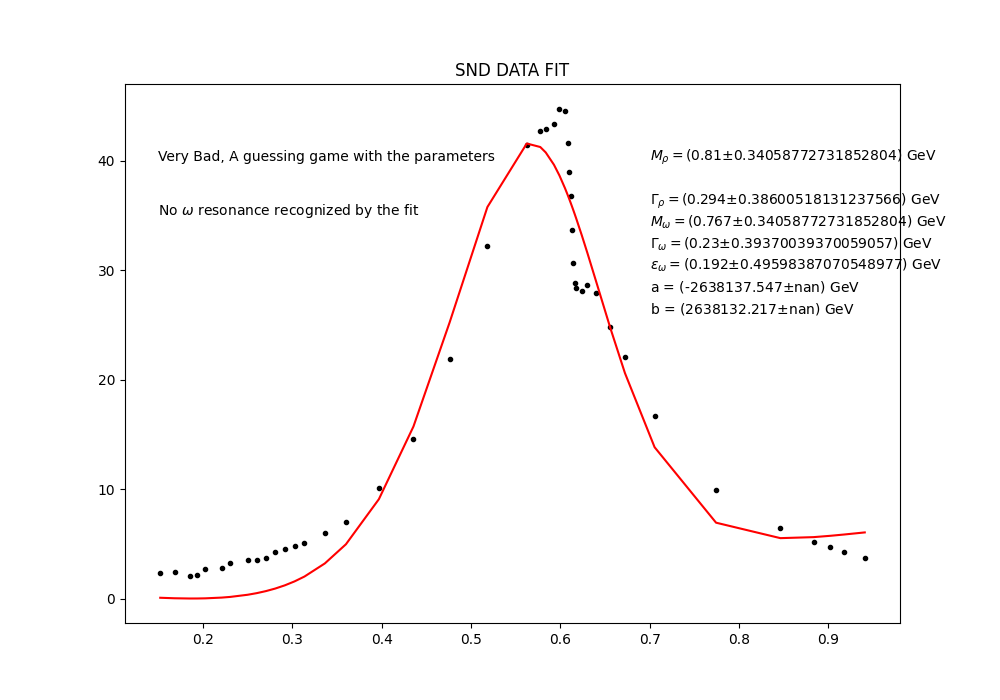
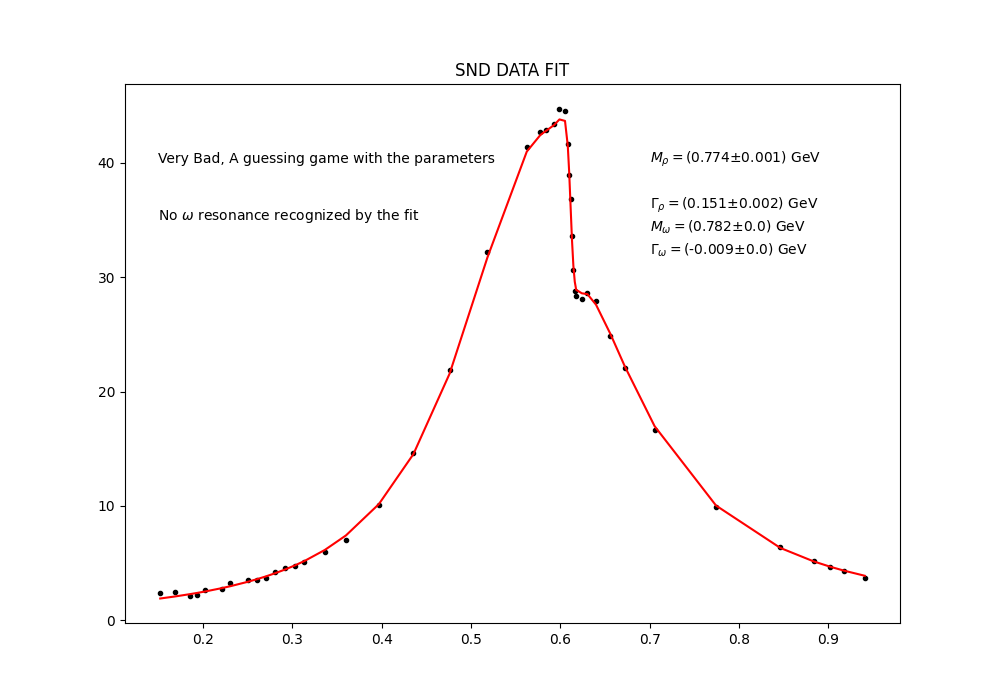
done first fit

diff --git a/sesh1/prog/fit_single.py b/sesh1/prog/fit_single.py
@@ -7,12 +7,12 @@ import matplotlib.pyplot as plt
 global m_p; m_p = 0.13957
 
 sig_p = lambda x: np.sqrt(1 - 4*m_p**2/x)
-g_s = lambda s, m_q, g_q: g_q*s/m_q**2 * (sig_p(s)/sig_p(m_q**2))**2 * np.heaviside(s, 4*m_p**2)
+g_s = lambda s, m_q, g_q: g_q*s/m_q**2 * (sig_p(s)/sig_p(m_q**2))**3 * np.heaviside(s,  4*m_p**2)
 
-def model(s, m_q, g_q, m_w, g_w, e_w, a, b):
+def model(s, m_q, g_q, m_w, g_w, e_w, a, b, c):
     part1 = (m_q)**4/((m_q**2 - s)**2 + m_q**2*g_s(s, m_q, g_q)**2)
     part2 = 1 + (e_w * 2*s * (m_w**2 - s))/((m_w**2 - s)**2 + m_w**2*g_w**2)
-    part3 = (1 + a*s + b*s)**2
+    part3 = c*(1 + a*s + b*s**2)**2
     return part1 * part2 * part3
 
 def main():
@@ -20,9 +20,9 @@ def main():
     s = data[:,0]
     F2 = data[:, 1]
 
-    p0 = [0.7, 0.2, 0.8, 0.2, 2e-3, 1e4, -1e5]   # in GeV
+    p0 = [0.7, 0.2, 0.8, 0.2, 2e-3, -522.90, 191.40, 0.5]   # in GeV
     popt, pcov = curve_fit(model, s, F2, p0)
-    popt, pcov = np.round(popt, 3), np.round(pcov, 3)
+    popt, uncert = np.round(popt, 3), np.round(np.sqrt(np.diagonal(pcov)), 3)
 
     plt.figure(figsize=[10, 7])
     plt.title('SND DATA FIT')
@@ -31,13 +31,10 @@ def main():
     plt.annotate('Very Bad, A guessing game with the parameters', (0.15, 40))
     plt.annotate(r'No $\omega$ resonance recognized by the fit', (0.15, 35))
 
-    plt.annotate(r'$M_{\rho} = $' + f'({popt[0]}' + r'$\pm$' + f'{np.sqrt(pcov[0][0])}) GeV', (0.7, 40))
-    plt.annotate(r'$\Gamma_{\rho} = $' + f'({popt[1]}' + r'$\pm$' + f'{np.sqrt(pcov[1][1])}) GeV', (0.7, 36))
-    plt.annotate(r'$M_{\omega} = $' + f'({popt[2]}' + r'$\pm$' + f'{np.sqrt(pcov[2][2])}) GeV', (0.7, 34))
-    plt.annotate(r'$\Gamma_{\omega} = $' + f'({popt[3]}' + r'$\pm$' + f'{np.sqrt(pcov[3][3])}) GeV', (0.7, 32))
-    plt.annotate(r'$\varepsilon_{\omega} = $' + f'({popt[4]}' + f'$\pm$' + f'{np.sqrt(pcov[4][4])}) GeV', (0.7, 30))
-    plt.annotate(f'a = ({popt[5]}' + r'$\pm$' + f'{np.sqrt(pcov[5][5])}) GeV', (0.7, 28))
-    plt.annotate(f'b = ({popt[6]}' + r'$\pm$' + f'{np.sqrt(pcov[6][6])}) GeV', (0.7, 26))
+    plt.annotate(r'$M_{\rho} = $' + f'({popt[0]}' + r'$\pm$' + f'{uncert[0]}) GeV', (0.7, 40))
+    plt.annotate(r'$\Gamma_{\rho} = $' + f'({popt[1]}' + r'$\pm$' + f'{uncert[1]}) GeV', (0.7, 36))
+    plt.annotate(r'$M_{\omega} = $' + f'({popt[2]}' + r'$\pm$' + f'{uncert[2]}) GeV', (0.7, 34))
+    plt.annotate(r'$\Gamma_{\omega} = $' + f'({popt[3]}' + r'$\pm$' + f'{uncert[3]}) GeV', (0.7, 32))
 
     plt.savefig('automated.png')
 
